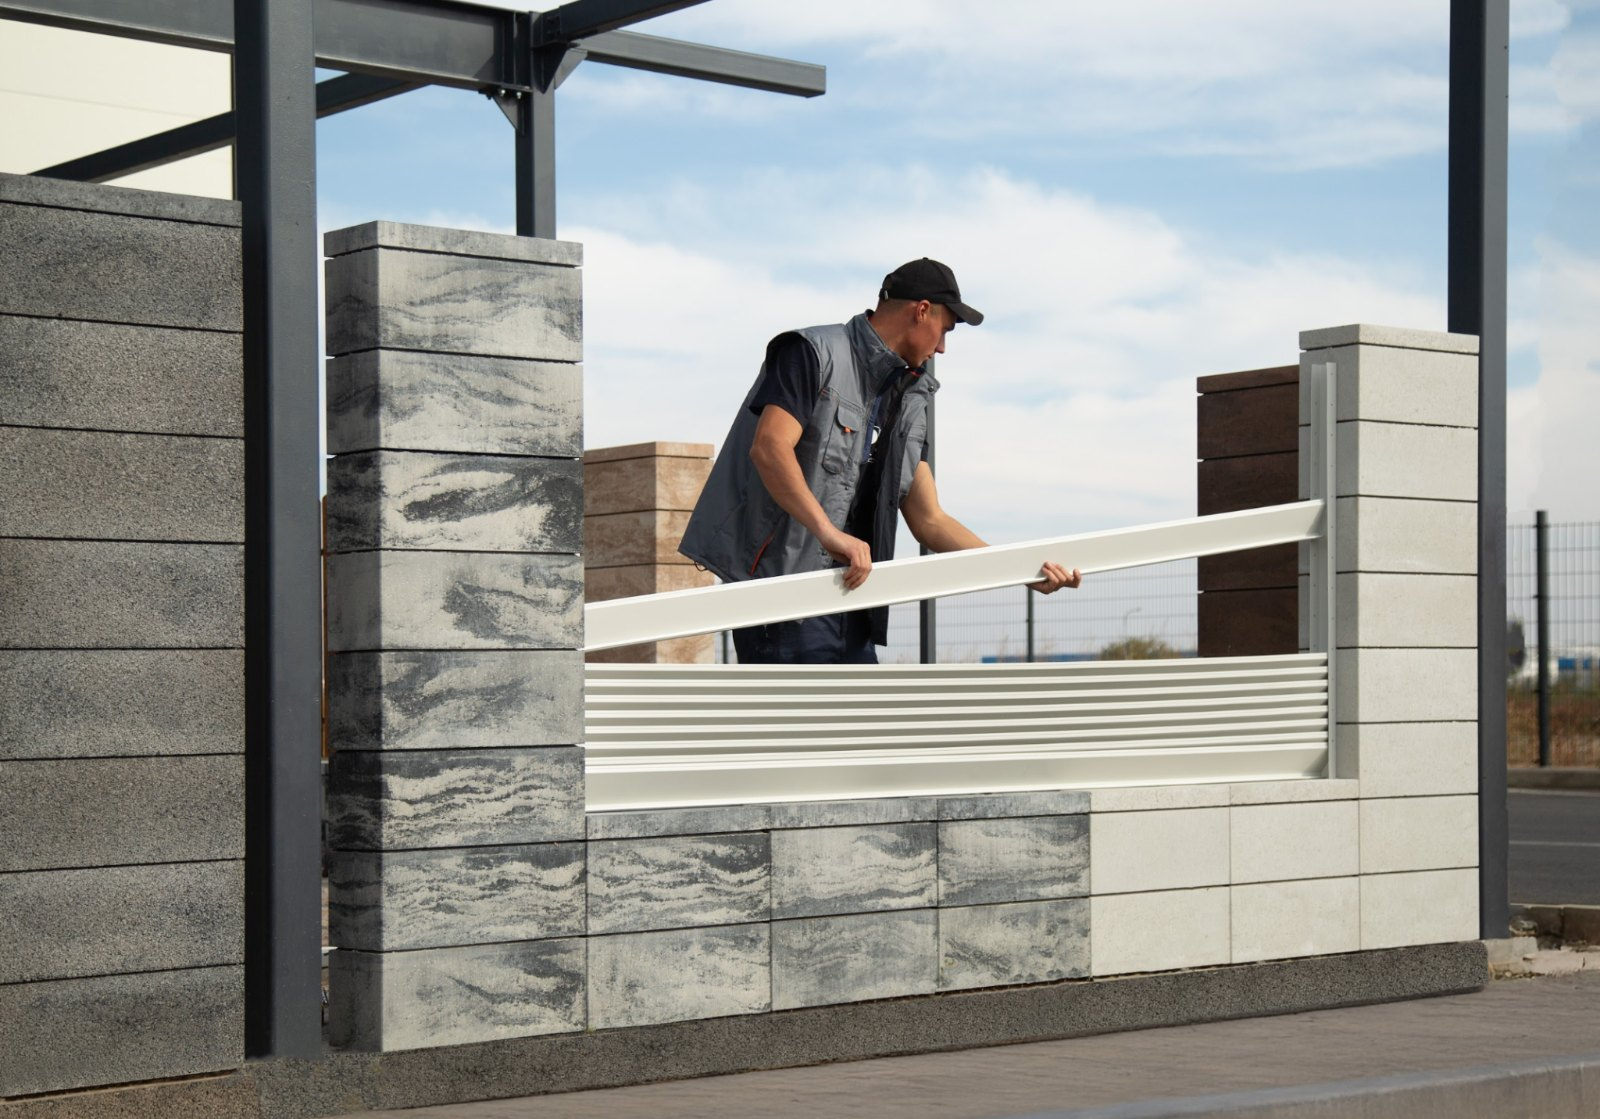
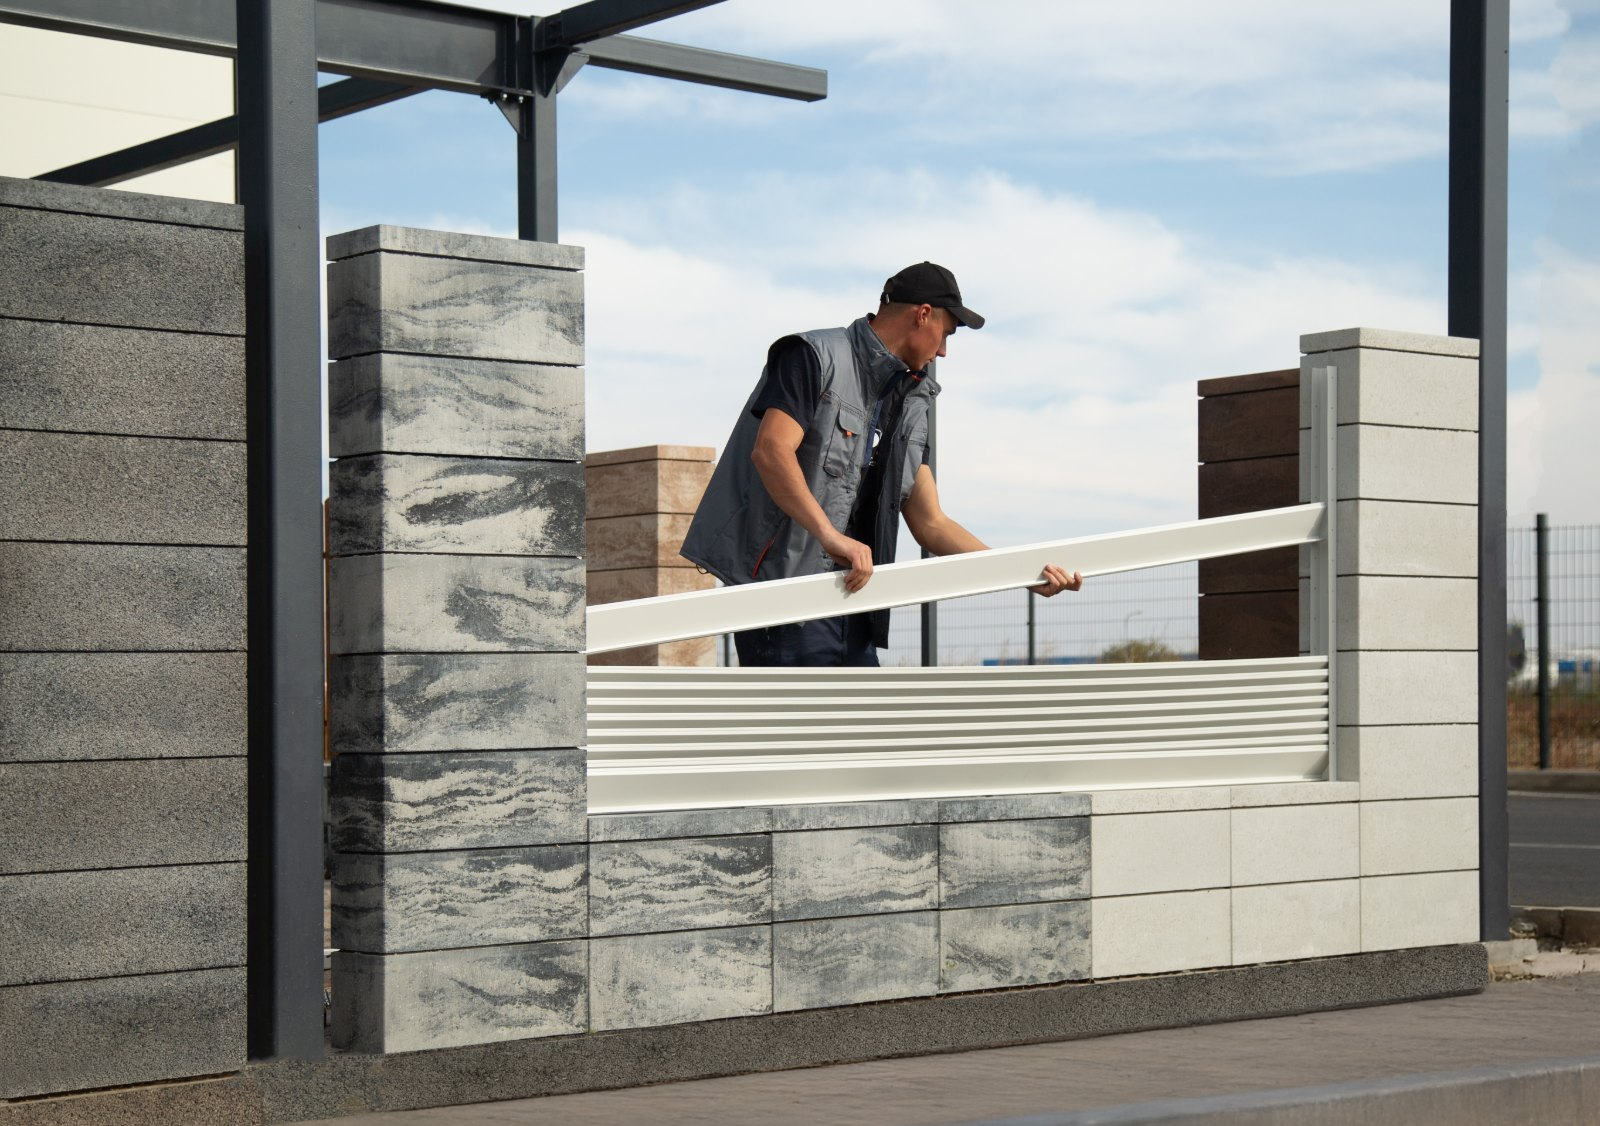
Photos from Vita's folder: originals for installer and sample stand, installers, coil and warehouse heroes, install film poster

diff --git a/src/data/sectors.ts b/src/data/sectors.ts
@@ -36,7 +36,7 @@ export const sectors: Sector[] = [
     id: 'instaladores', name: 'Монтажные компании и установщики', short: 'Монтаж и бригады', icon: 'wrench',
     title: 'Зарабатывайте на продаже и монтаже MIRADEX',
     lead: ['Зарабатывайте на продаже продукции и её монтаже. Получайте дополнительные местные заказы от MIRADEX и загружайте свою бригаду новыми объектами.', 'Партнёрские цены, обучение монтажу и техническая поддержка на первых объектах.'],
-    image: '/img/photos/atlas-wood-street.jpg', video: 3, primary: 'instalar',
+    image: '/img/photos/installer-fence.jpg', video: 3, primary: 'instalar',
     formats: [['instalar', 'installers'], ['recomendar', 'installers']], form: 'Монтаж и установка', why: installerDrivers,
   },
   {
@@ -59,7 +59,7 @@ export const sectors: Sector[] = [
     id: 'metalisteria', name: 'Металлообрабатывающие компании', short: 'Металлообработка', icon: 'hammer',
     title: 'Меньше ручного производства, больше объектов',
     lead: ['Используйте готовые металлические ограждения MIRADEX вместо трудоёмкого самостоятельного изготовления.', 'Производство по индивидуальным размерам без расширения собственных мощностей: зарабатывайте на продаже и монтаже.'],
-    image: '/img/photos/simetrica-black.jpg', video: 3, primary: 'instalar',
+    image: '/img/photos/coil-worker.jpg', video: 3, primary: 'instalar',
     formats: [['instalar', 'metal'], ['vender', 'metal']], form: 'Металлообработка', why: installerDrivers,
   },
   {
@@ -110,7 +110,7 @@ export const sectors: Sector[] = [
     id: 'distribuidores', name: 'Дистрибьюторы и оптовые компании', short: 'Дистрибуция и опт', icon: 'warehouse',
     title: 'Новая товарная категория и объёмные закупки',
     lead: ['Расширяйте ассортимент современных металлических ограждений и увеличивайте продажи через существующую клиентскую и дилерскую сеть.', 'Индивидуальные партнёрские цены с учётом объёмов и производство под заказ без складских запасов.'],
-    image: '/img/photos/romb-mini-street.jpg', video: 4, primary: 'vender',
+    image: '/img/photos/factory-coils.jpg', video: 4, primary: 'vender',
     formats: [['vender', 'distributors'], ['negocio', 'dealers']], form: 'Дистрибьютор или опт',
   },
   {

diff --git a/src/data/videos.ts b/src/data/videos.ts
@@ -7,7 +7,7 @@ const v = (num: number, title: string, duration: string, poster: string): Video 
 export const videos: Record<number, Video> = {
   1: v(1, 'MIRADEX для бизнеса: возможности сотрудничества', '3:10-3:30', 'atlas-mountain'),
   2: v(2, 'Постройте свой бизнес с MIRADEX', '3:00-3:20', 'atlas-villas'),
-  3: v(3, 'Строительные и монтажные компании: больше возможностей заработать', '2:50-3:10', 'tisa-wood-stone'),
+  3: v(3, 'Строительные и монтажные компании: больше возможностей заработать', '2:50-3:10', 'install-hands'),
   4: v(4, 'Добавьте MIRADEX в свой ассортимент', '3:00-3:15', 'sigma-red-house'),
   5: v(5, 'Зарабатывайте больше с существующих клиентов', '2:50-3:05', 'gate-wood'),
   6: v(6, 'MIRADEX для строительных компаний и застройщиков', '3:00-3:15', 'romb-pro-house'),

diff --git a/src/data/landings/instalar.ts b/src/data/landings/instalar.ts
@@ -49,8 +49,8 @@ export const instalar: Landing = {
     quickTitle: 'Получите условия для вашей монтажной команды',
     quickText: 'Оставьте контакты: мы свяжемся с вами в течение 24 часов.',
     quickDone: 'Мы свяжемся с вами в течение 24 часов.',
-    image: '/img/photos/atlas-wood-street.jpg',
-    imageAlt: 'Ограждение Atlas на улице',
+    image: '/img/photos/installer-fence.jpg',
+    imageAlt: 'Монтажник устанавливает ограждение',
     note: 'Продавайте MIRADEX по всей Испании, а монтаж выполняйте в своей зоне работы.',
   },
   businesses: {

diff --git a/docs/PLAN-v3.md b/docs/PLAN-v3.md
@@ -410,3 +410,4 @@
 - «Производство»: фото заводу.
 - Асортимент: нове фото в половині «Фасад», картка 1 без змін. Це спільний блок, він змінився на всіх сторінках.
 - Відкрито: фото для «Системы для ограждений» (огорожа, ворота й хвіртка разом), фото каталогу, оригінали фото.
+- Папка фото Віти, 06.11.2026: оригінали для формату 02 і стенда із зразками. Монтажник на першому екрані «Продавать и устанавливать» і сторінки монтажників, робота з рулонами на сторінці металообробки, склад сталі на сторінці дистриб'юторів, монтаж на обкладинці ролика 3.
